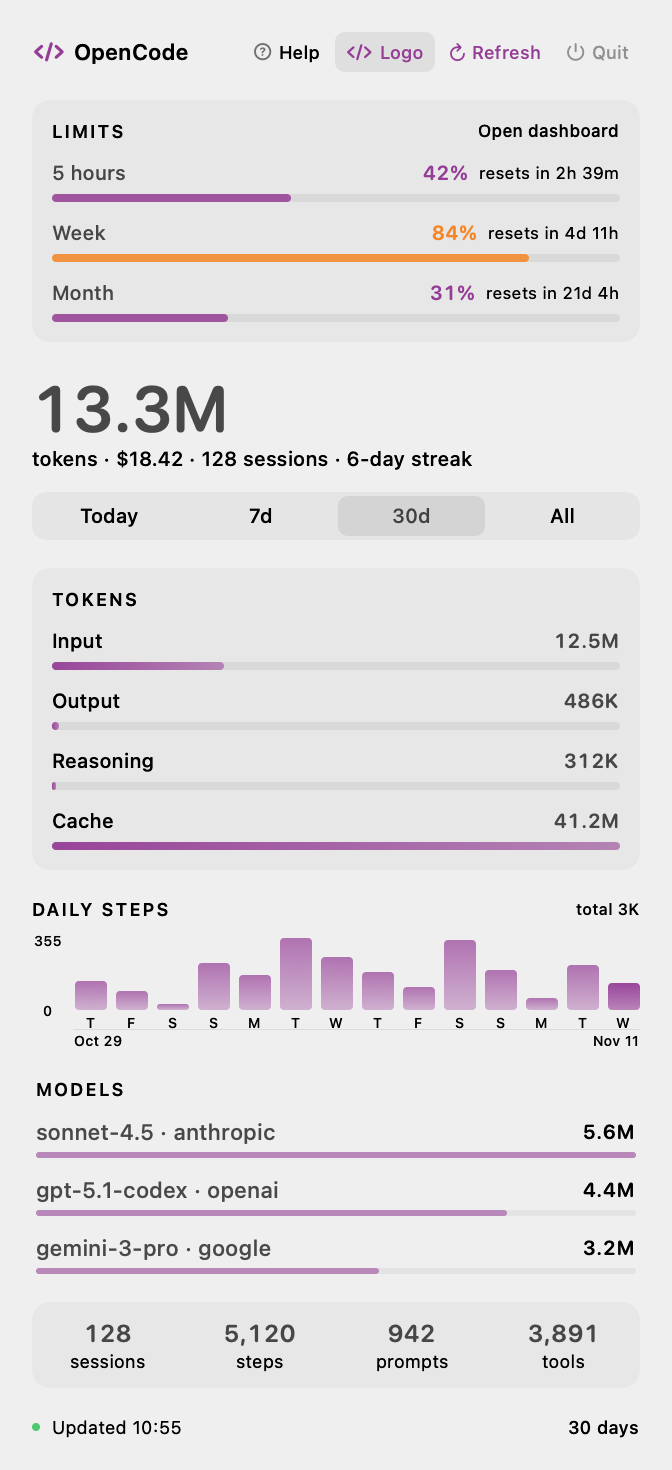
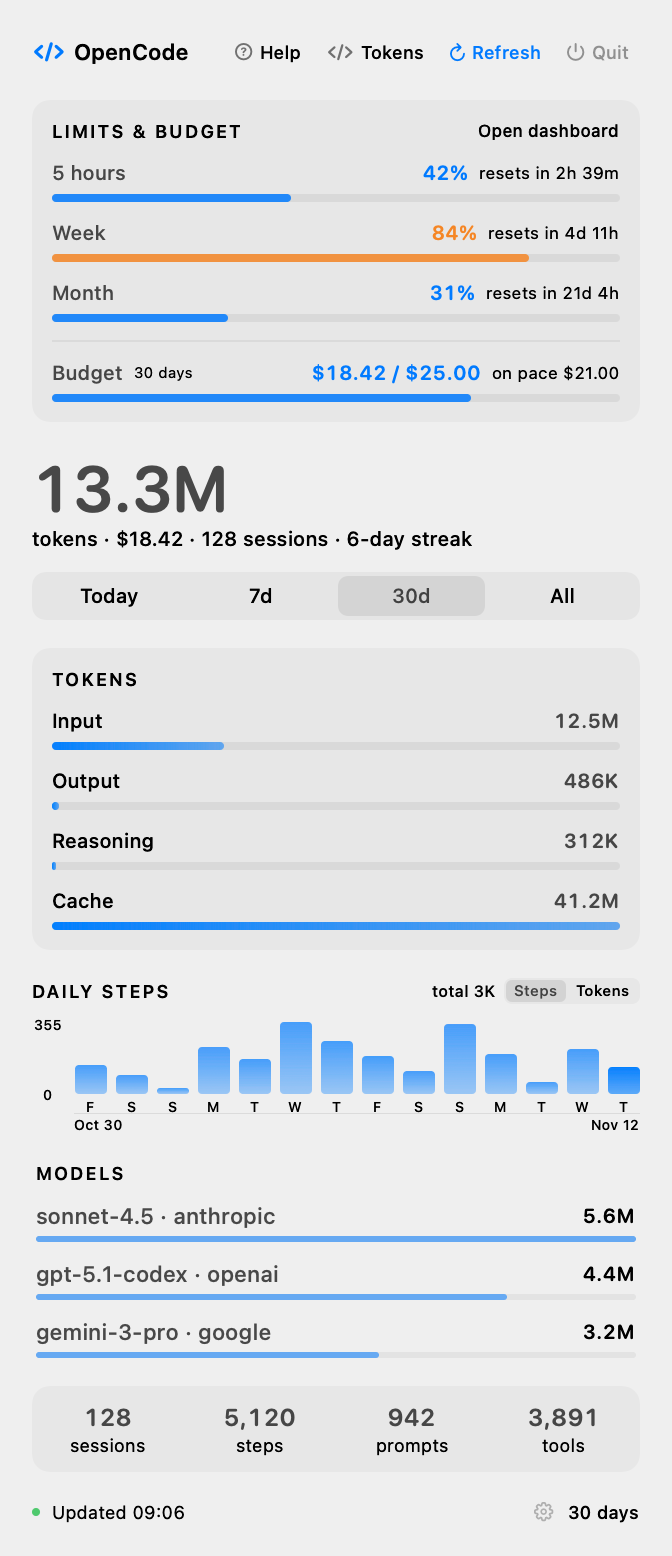
Document the new controls and refresh the previews
Add a settings screenshot, describe budget, history and the menu bar modes, and remove the login item on uninstall. Bump the app to 1.1.0.

diff --git a/README.md b/README.md
@@ -6,7 +6,7 @@
 
 <p align="center">Your <a href="https://opencode.ai">OpenCode</a> usage, quotas and token totals in the menu bar.</p>
 
-It reads `opencode stats --json` and the local usage limits endpoint. No account, no API key, no telemetry, no network calls beyond your own OpenCode server. Everything stays on your Mac.
+It reads `opencode stats --json` and the local usage limits endpoint. No account, no API key, no telemetry, no network calls beyond your own OpenCode server. Everything stays on your Mac, including the daily history used for trends.
 
 <p align="center">
   <img src="docs/preview.png" width="330" alt="Dashboard">
@@ -16,12 +16,15 @@ It reads `opencode stats --json` and the local usage limits endpoint. No account
 ## Features
 
 - **Limits on top**: 5 hour, weekly and monthly quota usage with reset countdown
-- **Menu bar**: token count, or just the app mark if you prefer a quiet icon
+- **Budget**: optional 30 day budget, spend progress and a pace estimate
+- **Menu bar**: tokens, cost, the tightest quota, or just the app mark
 - **Dashboard**: cost, token split (input, output, reasoning, cache)
 - **Models**: top three models by token share
-- **Activity**: 14 day chart with value and date axes
+- **Activity**: daily steps or token history, with a 7 day comparison
+- **History**: daily totals saved locally so trends survive restarts
 - **Counters**: sessions, steps, prompts, tool calls
 - **Periods**: Today, 7 days, 30 days, all time
+- **Settings**: refresh cadence, menu bar mode, budget, login item, history
 - **Welcome screen**: first run check for the CLI and local data
 - Light and dark mode, system accent color, no Dock icon
 
@@ -50,30 +53,47 @@ Click the menu bar item to open the dashboard.
 | Control | What it does |
 | --- | --- |
 | Help | Opens the welcome screen |
-| Tokens / Logo | Switches what the menu bar shows |
+| Tokens / Cost / Limit / Logo | Cycles what the menu bar shows |
 | Refresh | Reloads stats and limits now |
 | Quit | Closes the app |
+| Settings (gear) | Refresh cadence, menu bar mode, budget, login item, history |
 
-Limits and stats refresh every 60 seconds, and whenever the popover opens.
+<p align="center">
+  <img src="docs/settings.png" width="330" alt="Settings">
+</p>
+
+Limits and stats refresh every 60 seconds by default. Pick 30 seconds to 5 minutes in Settings. They also refresh whenever the popover opens; limits are cached for five minutes.
+
+The menu bar can show the token total, the spend, the tightest quota percentage (orange above 80%, red at the limit), or just the mark.
+
+## Budget
+
+Set a 30 day budget in Settings. The dashboard then adds a budget row with the last 30 days of spend and a pace estimate: the last seven days projected to 30 days. Clear the field to hide the row.
+
+## History
+
+Every refresh records today's totals in `~/Library/Application Support/OpenCodeMeter/history.json`. The chart can switch between daily steps and stored daily tokens, and the token view compares the last seven days with the seven before once enough history exists. History is capped at 180 days and can be cleared from Settings. Nothing leaves the Mac.
 
 ## Start at login
+
+Toggle **Start at login** in Settings. It writes `~/Library/LaunchAgents/dev.local.opencode-meter.plist` for the copy of the app you are running. Turn it off to remove the file.
+
+The same thing from a terminal:
 
 ```sh
 ./Support/install-login-item.sh
 ```
 
-It writes `~/Library/LaunchAgents/dev.local.opencode-meter.plist`. Remove that file to stop it.
-
 ## How it works
 
-The app runs two commands and parses their JSON:
+The app runs the OpenCode CLI and parses its JSON:
 
 ```
 opencode stats --days N --cost --json
 opencode api get /api/experimental/usage/limits
 ```
 
-The result is rendered with SwiftUI inside an `NSPopover`. There is no database access and no background daemon. The only moving parts are the OpenCode CLI and its local server.
+Each refresh reads the selected period, today, and the last week, plus the last 30 days when a budget is set. That keeps the chart and budget filled even when you browse Today. The result is rendered with SwiftUI inside an `NSPopover`. There is no database access and no background daemon. The only moving parts are the OpenCode CLI and its local server.
 
 `opencode` is looked up in `/opt/homebrew/bin`, `/usr/local/bin`, `~/.bun/bin` and `~/.local/bin`, then through a login shell (`command -v opencode`).
 
@@ -94,6 +114,7 @@ Design check without screen recording permissions:
 OCMETER_RENDER=/tmp/meter.png build/OpenCodeMeter.app/Contents/MacOS/OpenCodeMeter
 OCMETER_DEMO=1 OCMETER_RENDER=/tmp/meter-demo.png build/OpenCodeMeter.app/Contents/MacOS/OpenCodeMeter
 OCMETER_WELCOME=1 OCMETER_RENDER=/tmp/welcome.png build/OpenCodeMeter.app/Contents/MacOS/OpenCodeMeter
+OCMETER_DEMO=1 OCMETER_SETTINGS=1 OCMETER_RENDER=/tmp/settings.png build/OpenCodeMeter.app/Contents/MacOS/OpenCodeMeter
 ```
 
 ## License
